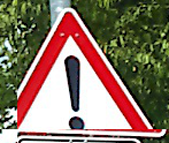
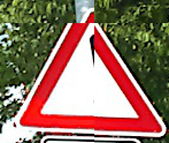
task strategy added

diff --git a/auto_encoder/augmentations.py b/auto_encoder/augmentations.py
@@ -372,67 +372,58 @@ def dummy_function(img, tar, percentage):
 
 class EncoderTask:
     def __init__(self,
-                 neutral=False,
-                 masking=False,
-                 cross_cut=False,
-                 patch_rotation=False,
-                 patch_shuffling=False,
-                 black_hole=False,
-                 blurring=False,
-                 noise=False,
-                 percentage=0.25):
+                 neutral=0.0,
+                 masking=0.0,
+                 cross_cut=0.0,
+                 patch_rotation=0.0,
+                 patch_shuffling=0.0,
+                 black_hole=0.0,
+                 blurring=0.0,
+                 noise=0.0,):
         self.tasks = [
             {
                 "name": "NEUTRAL",
-                "active": neutral,
                 "function": dummy_function,
-                "percentage": percentage,
+                "percentage": neutral,
             },
             {
                 "name": "MASKING",
-                "active": masking,
                 "function": apply_mask,
-                "percentage": percentage
+                "percentage": masking
             },
             {
                 "name": "CROSS_REMOVAL",
-                "active": cross_cut,
                 "function": apply_cross_cut,
-                "percentage": percentage,
+                "percentage": cross_cut,
             },
             {
                 "name": "PATCH_ROTATION",
-                "active": patch_rotation,
                 "function": apply_patch_rotation,
-                "percentage": percentage,
+                "percentage": patch_rotation,
             },
             {
                 "name": "PATCH_SHUFFLING",
-                "active": patch_shuffling,
                 "function": apply_patch_shuffling,
-                "percentage": percentage,
+                "percentage": patch_shuffling,
             },
             {
                 "name": "BLACKHOLE_MASKING",
-                "active": black_hole,
                 "function": apply_blackhole_mask,
-                "percentage": percentage,
+                "percentage": black_hole,
             },
             {
                 "name": "BLURRING",
-                "active": blurring,
                 "function": apply_blur,
-                "percentage": percentage
+                "percentage": blurring
             },
             {
                 "name": "NOISE",
-                "active": noise,
                 "function": apply_noise,
-                "percentage": percentage
+                "percentage": noise
             }
         ]
 
-        self.active_tasks = [t for t in self.tasks if t["active"]]
+        self.active_tasks = [t for t in self.tasks if t["percentage"] > 0.0]
 
     def apply(self, img, tar):
         if len(self.active_tasks) == 0:
@@ -463,7 +454,7 @@ def tests():
     cv2.imwrite("./test_image/test_traffic_sign_masked_clackhole.png", img)
 
     img = cv2.imread("./test_image/test_traffic_sign.png")
-    img, _ = apply_blur(img, img, percentage=0.25)
+    img, _ = apply_blur(img, img, percentage=0.75)
     cv2.imwrite("./test_image/test_traffic_sign_blur.png", img)
 
     img = cv2.imread("./test_image/test_traffic_sign.png")

diff --git a/train_ae.py b/train_ae.py
@@ -59,19 +59,19 @@ def main(args_):
     if cfg.opt["task"] == "reconstruction":
         task = None
     elif cfg.opt["task"] == "blurring":
-        task = EncoderTask(blurring=True, neutral=True, percentage=cfg.opt["task_difficulty"])
+        task = EncoderTask(blurring=cfg.opt["task_difficulty"])
     elif cfg.opt["task"] == "denoise":
-        task = EncoderTask(noise=True, neutral=True, percentage=cfg.opt["task_difficulty"])
+        task = EncoderTask(noise=cfg.opt["task_difficulty"])
     elif cfg.opt["task"] == "completion_cross_cut":
-        task = EncoderTask(cross_cut=True, neutral=True, percentage=cfg.opt["task_difficulty"])
+        task = EncoderTask(cross_cut=cfg.opt["task_difficulty"])
     elif cfg.opt["task"] == "completion_masking":
-        task = EncoderTask(masking=True, neutral=True, percentage=cfg.opt["task_difficulty"])
+        task = EncoderTask(masking=cfg.opt["task_difficulty"])
     elif cfg.opt["task"] == "reconstruction_shuffled":
-        task = EncoderTask(patch_shuffling=True, neutral=True, percentage=cfg.opt["task_difficulty"])
+        task = EncoderTask(patch_shuffling=cfg.opt["task_difficulty"])
     elif cfg.opt["task"] == "reconstruction_rotated":
-        task = EncoderTask(patch_rotation=True, neutral=True, percentage=cfg.opt["task_difficulty"])
+        task = EncoderTask(patch_rotation=cfg.opt["task_difficulty"])
     elif cfg.opt["task"] == "completion_blackhole":
-        task = EncoderTask(black_hole=True, neutral=True, percentage=cfg.opt["task_difficulty"])
+        task = EncoderTask(black_hole=cfg.opt["task_difficulty"])
     else:
         raise Exception("No Valid Task Specified.. {}".format(cfg.opt["task"]))
 

diff --git a/auto_encoder/auto_encoder.py b/auto_encoder/auto_encoder.py
@@ -155,7 +155,6 @@ class AutoEncoder:
             tag_set_test,
             image_size=self.input_shape,
             batch_size=self.batch_size,
-            augmentations=augmentations,
         )
 
         checkpoint = ModelCheckpoint(

diff --git a/compare_models.py b/compare_models.py
@@ -58,7 +58,7 @@ def main(args_):
 
     properties = {
         "clf": ["LR"],
-        "n_labels": 2500,
+        "n_labels": 10000,
         "depth": [2],
         "resolution": [16],
         # "embedding_size": 256,
